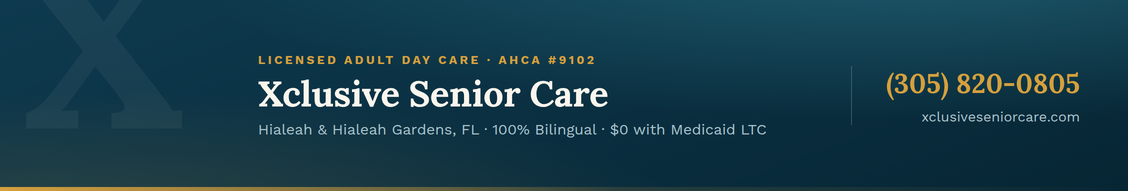
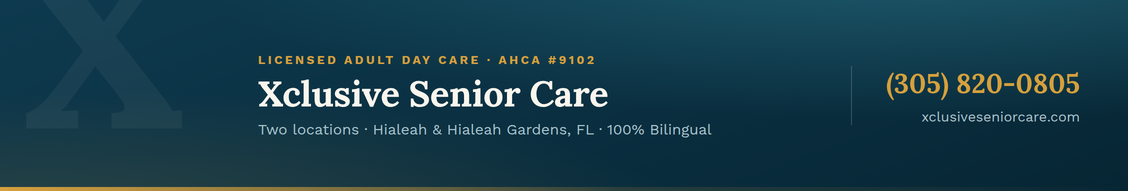
State two locations across every asset and all copy
Hialeah Gardens address confirmed. "Two locations" was previously implied by
listing both cities; it is now said outright everywhere it matters — both
banners, the headline, the About sections in both languages, the Experience
entry, the Company Page tagline and the launch posts.

The personal banner's subtitle now leads with it, which freed enough width to
move the bilingual claim up into the first chip row and balance the two rows.

Also drops the verify-this caveats on founding year and headcount, both now
confirmed. The Hialeah street address stays a marked placeholder in four spots.

Changed region(s): [[0.2172, 0.6545, 0.6826, 0.733]]

diff --git a/linkedin-profile/src/banner-profile.html b/linkedin-profile/src/banner-profile.html
@@ -49,11 +49,12 @@
     <div class="main">
       <div class="eyebrow">Licensed Adult Day Care Center &middot; AHCA #9102</div>
       <h1 class="name">Xclusive Senior Care</h1>
-      <div class="sub">Hialeah &amp; Hialeah Gardens, Florida &middot; 100% Bilingual / Bilingüe</div>
+      <div class="sub">Two locations in Hialeah &amp; Hialeah Gardens, Florida</div>
       <hr class="rule">
       <div class="chips">
         <span class="chip">Registered nurse on site</span>
         <span class="chip">1 caregiver per 4 seniors</span>
+        <span class="chip">100% Bilingual / Bilingüe</span>
         <span class="chip">Meals &amp; transportation included</span>
         <span class="chip gold">$0 with Medicaid Long-Term Care</span>
       </div>

diff --git a/linkedin-profile/src/banner-company.html b/linkedin-profile/src/banner-company.html
@@ -39,7 +39,7 @@
     <div class="main">
       <div class="eyebrow">Licensed Adult Day Care &middot; AHCA #9102</div>
       <h1 class="name">Xclusive Senior Care</h1>
-      <div class="sub">Hialeah &amp; Hialeah Gardens, FL &middot; 100% Bilingual &middot; $0 with Medicaid LTC</div>
+      <div class="sub">Two locations &middot; Hialeah &amp; Hialeah Gardens, FL &middot; 100% Bilingual</div>
     </div>
     <div class="contact">
       <div class="phone">(305) 820-0805</div>

diff --git a/linkedin-profile/PROFILE-COPY.md b/linkedin-profile/PROFILE-COPY.md
@@ -5,9 +5,9 @@ your AHCA license, and your public listings). Nothing here is invented.
 
 If a detail changes, change it here first so every place stays consistent.
 
-> **One blank to fill:** the street address of the **Hialeah** location. Only the
-> Hialeah Gardens address is confirmed. Anywhere you see `[HIALEAH ADDRESS]`,
-> type it in — or delete that line and mention only Hialeah Gardens.
+> **One blank to fill:** the street address of the **Hialeah** location. The
+> Hialeah Gardens address is confirmed; the Hialeah one was never written down
+> anywhere I could reach. Anywhere you see `[HIALEAH ADDRESS]`, type it in.
 
 ---
 
@@ -18,8 +18,9 @@ If a detail changes, change it here first so every place stays consistent.
 | Legal name | XCLUSIVE SENIOR DAY CARE CENTER, INC |
 | Public / brand name | Xclusive Senior Care |
 | License | AHCA #9102 |
-| Address | 12975 W. Okeechobee Rd., Units 2, 3, 4, Hialeah Gardens, FL 33018 |
-| Second location | Hialeah, FL — `[HIALEAH ADDRESS]` |
+| Locations | **Two centers** |
+| Location 1 | 12975 W. Okeechobee Rd., Units 2, 3, 4, Hialeah Gardens, FL 33018 |
+| Location 2 | Hialeah, FL — `[HIALEAH ADDRESS]` |
 | Phone | (305) 820-0805 |
 | Fax | (305) 402-8509 |
 | Email | info@xclusiveseniorcare.com |
@@ -45,20 +46,20 @@ unprofessional thing on the page.
 
 ## 2. Headline
 
-*(LinkedIn limit: 220 characters. This one is 168.)*
+*(LinkedIn limit: 220 characters. This one is 185.)*
 
 ```
-Licensed Adult Day Care in Hialeah & Hialeah Gardens, FL | 100% Bilingual | RN On Site | Meals & Transportation Included | $0 with Medicaid Long-Term Care | (305) 820-0805
+Licensed Adult Day Care | 2 Locations in Hialeah & Hialeah Gardens, FL | 100% Bilingual | RN On Site | Meals & Transportation Included | $0 with Medicaid Long-Term Care | (305) 820-0805
 ```
 
 ---
 
 ## 3. About section — English
 
-*(LinkedIn limit: 2,600 characters. This one is about 1,450.)*
+*(LinkedIn limit: 2,600 characters. This one is about 1,420.)*
 
 ```
-Xclusive Senior Care is a licensed adult day care center serving families in Hialeah and Hialeah Gardens, Florida. AHCA License #9102.
+Xclusive Senior Care is a licensed adult day care center with two locations, serving families across Hialeah and Hialeah Gardens, Florida. AHCA License #9102.
 
 Every weekday we give older adults a place to spend the day with purpose, company and professional supervision — and we give their families the confidence to go to work knowing someone they trust is watching over their loved one.
 
@@ -77,11 +78,14 @@ Most of the families we serve pay $0 through Medicaid Long-Term Care. If you are
 100% BILINGUAL
 Our whole team speaks English and Spanish. No family is handed a form they cannot read, and no family is left out of a conversation about their own parent.
 
+OUR TWO LOCATIONS
+- Hialeah Gardens: 12975 W. Okeechobee Rd., Units 2-4, Hialeah Gardens, FL 33018
+- Hialeah: [HIALEAH ADDRESS]
+
 Monday to Friday, 9:00 AM to 5:00 PM
-12975 W. Okeechobee Rd., Units 2-4, Hialeah Gardens, FL 33018
 (305) 820-0805 | info@xclusiveseniorcare.com | xclusiveseniorcare.com
 
-Come see the center before you decide. Call us to schedule a tour.
+Come see either center before you decide. Call us to schedule a tour.
 ```
 
 ---
@@ -93,7 +97,7 @@ README), which is the correct way to run a bilingual profile — not by pasting 
 languages into one box.
 
 ```
-Xclusive Senior Care es un centro de cuidado diurno para adultos con licencia, al servicio de las familias de Hialeah y Hialeah Gardens, Florida. Licencia AHCA #9102.
+Xclusive Senior Care es un centro de cuidado diurno para adultos con licencia, con dos centros al servicio de las familias de Hialeah y Hialeah Gardens, Florida. Licencia AHCA #9102.
 
 Cada día de semana les damos a los adultos mayores un lugar donde pasar el día con propósito, compañía y supervisión profesional — y les damos a sus familias la tranquilidad de ir a trabajar sabiendo que alguien de confianza cuida a su ser querido.
 
@@ -112,11 +116,14 @@ La mayoría de las familias que atendemos pagan $0 a través de Medicaid Long-Te
 100% BILINGÜE
 Todo nuestro equipo habla español e inglés. Ninguna familia recibe un formulario que no pueda leer, ni queda fuera de una conversación sobre su propio padre o madre.
 
+NUESTROS DOS CENTROS
+- Hialeah Gardens: 12975 W. Okeechobee Rd., Units 2-4, Hialeah Gardens, FL 33018
+- Hialeah: [HIALEAH ADDRESS]
+
 De lunes a viernes, de 9:00 AM a 5:00 PM
-12975 W. Okeechobee Rd., Units 2-4, Hialeah Gardens, FL 33018
 (305) 820-0805 | info@xclusiveseniorcare.com | xclusiveseniorcare.com
 
-Venga a conocer el centro antes de decidir. Llámenos para agendar una visita.
+Venga a conocer cualquiera de los dos centros antes de decidir. Llámenos para agendar una visita.
 ```
 
 ---
@@ -131,19 +138,19 @@ Add one Experience entry so the profile links to the Company Page (step 7 in the
 | Employment type | `Self-employed` (or `Full-time` if a person is filling this in) |
 | Company name | `Xclusive Senior Day Care Center, Inc` — pick the Page from the dropdown once it exists |
 | Location | `Hialeah Gardens, Florida, United States` |
-| Start date | `January 2008` — the year the corporation was registered in Florida. **Change it if the center opened its doors in a different year.** |
+| Start date | `January 2008` |
 | Currently working here | Yes |
 
 Description:
 
 ```
-Licensed adult day care serving Hialeah and Hialeah Gardens (AHCA #9102). Registered nurse on site, one caregiver per four seniors, and a 100% bilingual team.
+Licensed adult day care with two locations, serving Hialeah and Hialeah Gardens (AHCA #9102). Registered nurse on site, one caregiver per four seniors, and a 100% bilingual team.
 
 Daily: therapeutic programs, physical exercise, art, music and horticulture, plus hobbies, crafts and outings. A hot USDA-approved meal and two snacks are served every day, and door-to-door transportation is included.
 
 Most families pay $0 through Medicaid Long-Term Care.
 
-Monday to Friday, 9:00 AM to 5:00 PM. Call (305) 820-0805 to schedule a tour.
+Both centers are open Monday to Friday, 9:00 AM to 5:00 PM. Call (305) 820-0805 to schedule a tour.
 ```
 
 ---
@@ -156,16 +163,16 @@ Monday to Friday, 9:00 AM to 5:00 PM. Call (305) 820-0805 to schedule a tour.
 | LinkedIn public URL | `linkedin.com/company/xclusive-senior-care` |
 | Website | `https://xclusiveseniorcare.com` |
 | Industry | `Individual and Family Services` |
-| Company size | `11-50 employees` — **check this against your payroll before saving** |
+| Company size | `11-50 employees` |
 | Company type | `Privately Held` |
-| Year founded | `2008` — same caveat as the Experience start date |
+| Year founded | `2008` |
 | Logo | `images/profile-picture-400x400.png` |
 | Cover image | `images/banner-company-1128x191.png` |
 
-**Tagline** *(limit 120 characters; this is 104)*:
+**Tagline** *(limit 120 characters; this is 109)*:
 
 ```
-Licensed, 100% bilingual adult day care in Hialeah & Hialeah Gardens. RN on site. $0 with Medicaid LTC.
+Licensed, 100% bilingual adult day care. 2 locations: Hialeah & Hialeah Gardens. RN on site. $0 Medicaid LTC.
 ```
 
 **Specialties** — add these one at a time:
@@ -173,6 +180,7 @@ Licensed, 100% bilingual adult day care in Hialeah & Hialeah Gardens. RN on site
 ```
 Adult Day Care
 Senior Care
+Multiple Locations
 Medicaid Long-Term Care
 Bilingual Care (English/Spanish)
 Therapeutic Activity Programs
@@ -187,6 +195,9 @@ Nutrition and Meal Service
 
 1. `12975 W. Okeechobee Rd., Units 2-4, Hialeah Gardens, FL 33018` (mark as HQ)
 2. `[HIALEAH ADDRESS]`, Hialeah, FL
+
+Add both. A Page with two locations shows up in LinkedIn searches for either city,
+so leaving the second one off costs you the Hialeah searches entirely.
 
 For the Page's About box, reuse the English About from section 3.
 
@@ -218,15 +229,15 @@ Healthcare Compliance
 Post this the day the profile goes live, so the page has something on it.
 
 ```
-Our doors have been open in Hialeah Gardens for years, but this is our first day on LinkedIn.
+Our doors have been open in Hialeah and Hialeah Gardens for years, but this is our first day on LinkedIn.
 
-Xclusive Senior Care is a licensed adult day care center (AHCA #9102). A registered nurse is on site, we keep one caregiver for every four seniors, and our whole team is bilingual.
+Xclusive Senior Care is a licensed adult day care center with two locations (AHCA #9102). A registered nurse is on site, we keep one caregiver for every four seniors, and our whole team is bilingual.
 
 Every day includes therapeutic programs, physical exercise, art, music and horticulture, a hot USDA-approved meal with two snacks, and door-to-door transportation.
 
 Most families pay $0 through Medicaid Long-Term Care.
 
-If you are caring for a parent and trying to keep your job at the same time, that is exactly the situation we exist for. Call (305) 820-0805 and come see the center.
+If you are caring for a parent and trying to keep your job at the same time, that is exactly the situation we exist for. Call (305) 820-0805 and come see whichever center is closer to you.
 
 #AdultDayCare #SeniorCare #Hialeah #Miami #Caregivers #Medicaid
 ```
@@ -234,15 +245,15 @@ If you are caring for a parent and trying to keep your job at the same time, tha
 ## 9. First post — Español
 
 ```
-Llevamos años con las puertas abiertas en Hialeah Gardens, pero hoy es nuestro primer día en LinkedIn.
+Llevamos años con las puertas abiertas en Hialeah y Hialeah Gardens, pero hoy es nuestro primer día en LinkedIn.
 
-Xclusive Senior Care es un centro de cuidado diurno para adultos con licencia (AHCA #9102). Contamos con enfermera registrada en el centro, un cuidador por cada cuatro adultos mayores, y todo nuestro equipo es bilingüe.
+Xclusive Senior Care es un centro de cuidado diurno para adultos con licencia, con dos centros (AHCA #9102). Contamos con enfermera registrada en el centro, un cuidador por cada cuatro adultos mayores, y todo nuestro equipo es bilingüe.
 
 Cada día incluye programas terapéuticos, ejercicio físico, arte, música y horticultura, un almuerzo caliente aprobado por USDA con dos meriendas, y transporte puerta a puerta.
 
 La mayoría de las familias pagan $0 a través de Medicaid Long-Term Care.
 
-Si usted cuida a su papá o a su mamá y a la vez trata de mantener su trabajo, esa es exactamente la situación para la que existimos. Llame al (305) 820-0805 y venga a conocer el centro.
+Si usted cuida a su papá o a su mamá y a la vez trata de mantener su trabajo, esa es exactamente la situación para la que existimos. Llame al (305) 820-0805 y venga a conocer el centro que le quede más cerca.
 
 #CuidadoDeAdultos #AdultosMayores #Hialeah #Miami #Cuidadores #Medicaid
 ```

diff --git a/linkedin-profile/README.md b/linkedin-profile/README.md
@@ -24,8 +24,9 @@ it in.
 | `images/banner-company-1128x191.png` | 1128 × 191 | The Company Page cover — **a different size, don't swap them** |
 
 All three are built from facts already on your license and in your email signature:
-AHCA #9102, RN on site, one caregiver per four seniors, meals and transportation
-included, $0 with Medicaid Long-Term Care, (305) 820-0805, Monday–Friday 9–5.
+two locations in Hialeah and Hialeah Gardens, AHCA #9102, RN on site, one caregiver
+per four seniors, meals and transportation included, $0 with Medicaid Long-Term
+Care, (305) 820-0805, Monday–Friday 9–5.
 
 The profile picture is designed for LinkedIn's circular crop — everything sits
 inside the circle, and it still reads at the small size used in the feed.
@@ -100,6 +101,9 @@ Edit intro → **Contact info**:
 - Email: `info@xclusiveseniorcare.com`
 - Address: `12975 W. Okeechobee Rd., Units 2-4, Hialeah Gardens, FL 33018`
 
+The personal profile holds one address. **Both** locations go on the Company Page in
+the next step — that is what makes you findable in searches for either city.
+
 ### 7. Create the Company Page — the piece that's actually missing
 A profile under `/in/` is LinkedIn's format for a *person*. A business belongs on a
 **Company Page**, and running a business on a personal profile is against LinkedIn's
@@ -157,12 +161,17 @@ Chromium automatically, or you can add the path to `CHROME_CANDIDATES` at the to
 
 ---
 
-## What is still yours to check
+## The one thing still missing
 
-- **The Hialeah address.** Only the Hialeah Gardens address is confirmed. Fill in
-  `[HIALEAH ADDRESS]` in PROFILE-COPY.md, or drop the second location.
-- **Year founded — 2008.** That is when the corporation was registered in Florida.
-  If the center opened later, change it in both the Experience entry and the Page.
-- **Company size — "11-50 employees"** is an estimate. Check it against payroll.
-- **Photo authorizations.** See PHOTO-GUIDE.md section 1 before posting any photo of
-  a participant.
+**The street address of the Hialeah location.** Everything else is confirmed and
+written in. Both banners, the About sections in both languages, the headline, the
+Experience entry and the Company Page all say *two locations* — but only the Hialeah
+Gardens street address is filled in, because the Hialeah one isn't recorded anywhere
+I could reach.
+
+Search `[HIALEAH ADDRESS]` in **PROFILE-COPY.md** — it appears in four places
+(English About, Spanish About, the facts table, and the Page's Locations list).
+Type the address in once you have it, or tell me and I'll fill it in for you.
+
+Separately, before posting any photo with a participant in it, read **PHOTO-GUIDE.md
+section 1** — that one is a HIPAA question, not a copy question.
